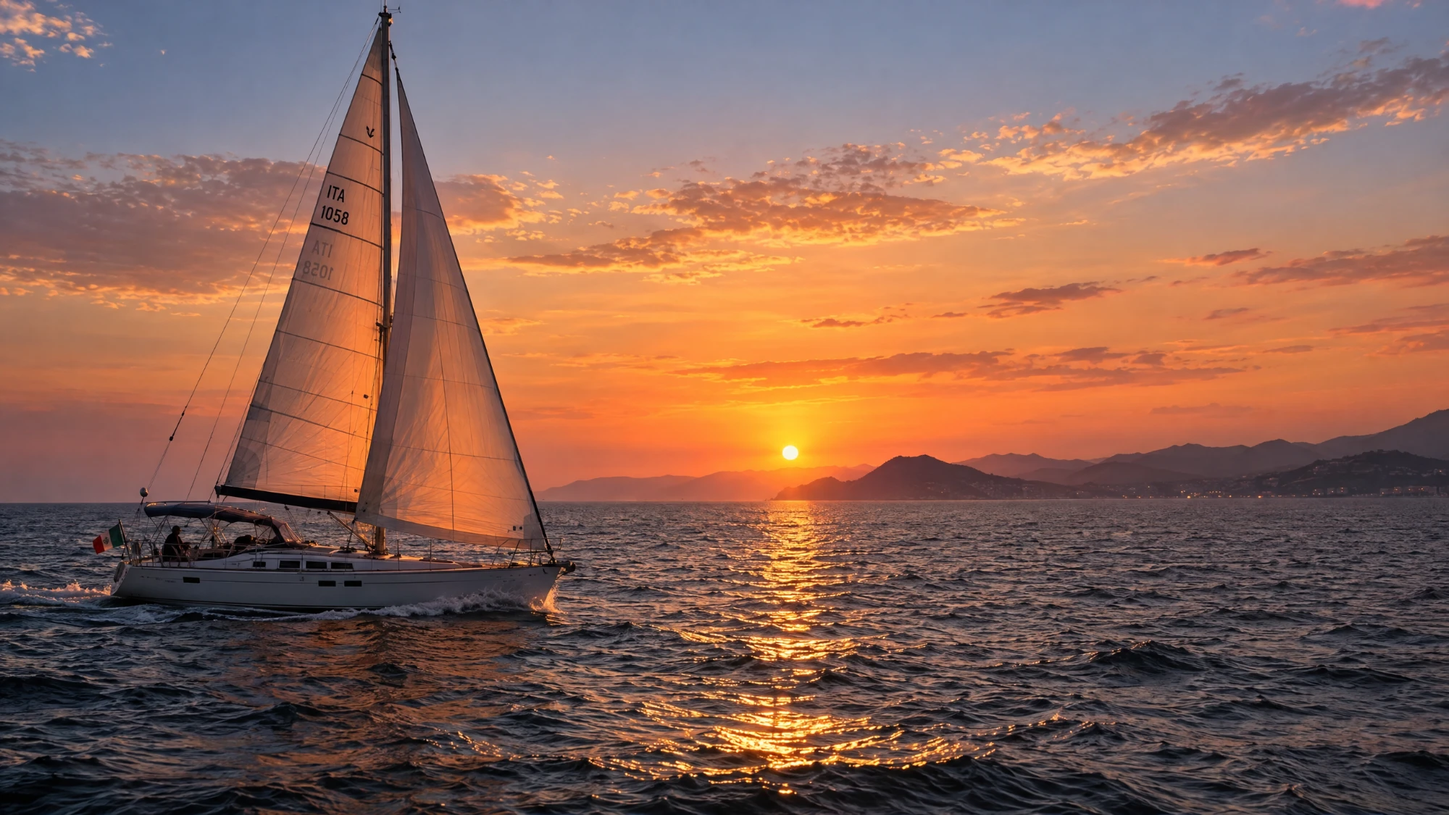
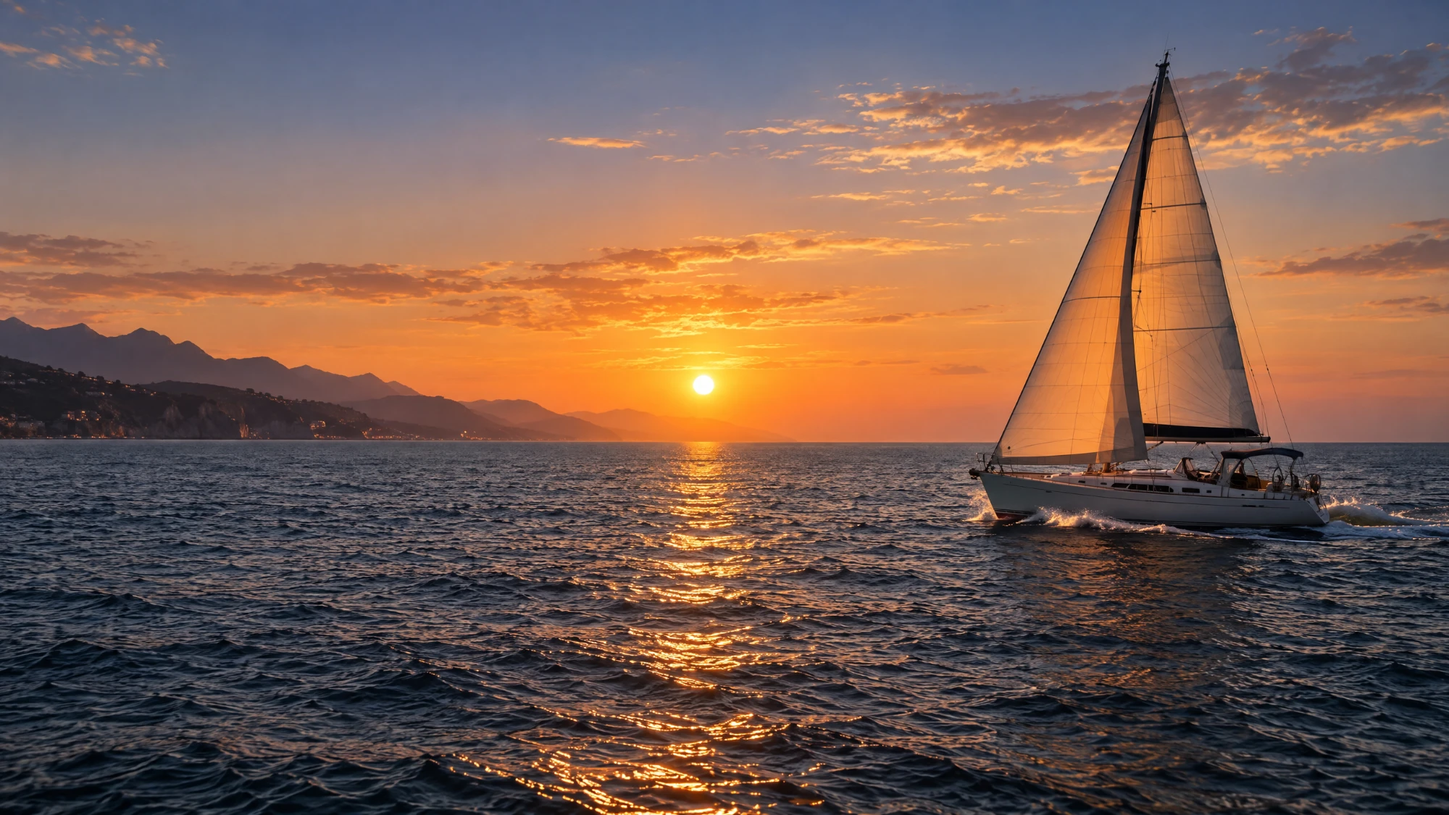
Úvod: hero s plachetnicí vpravo, ilustrační fotka kapitána
- Hero úvodu: nová fotka od klienta s lodí vpravo (text vlevo ji
  nezakrývá), na mobilu výřez posunutý k lodi.
- Karty kapitánů na úvodu a v Náš příběh: jedna ilustrační fotka
  kapitána u kormidla pro všech šest (assets/img/kapitan.webp),
  výřez nastavený na obličej. Označeno OVĚŘIT, nahradit portréty.

Claude-Session: https://claude.ai/code/session_01WPWt2yWtaWmPMjNw8WTRBX

diff --git a/nas-pribeh/index.html b/nas-pribeh/index.html
@@ -57,7 +57,8 @@
 <section class="section"><div class="wrap"><h2 class="sr-only">Příběh od roku 1974 po dnešek</h2><div class="story-track" data-story><svg class="st-svg" aria-hidden="true"><path class="st-route"/><path class="st-trail"/><g class="st-dots"></g><g class="vm-boat"><g class="vm-bob"><path d="M-22 6 L22 6 L15 14 L-15 14 Z" fill="currentColor"/><path d="M-2 4 L-2 -30 L16 4 Z" fill="#fff" stroke="#0B1621" stroke-width="1"/><path d="M-5 4 L-5 -24 L-19 4 Z" fill="#CDB184"/></g></g></svg><article class="chapter"><div class="chapter-img"><img src="https://images.unsplash.com/photo-1636730740168-c94f3ab802e6?auto=format&fit=crop&w=1600&q=80" alt="Malá plachetnice na hladině" loading="lazy"></div><div><span class="year">1974</span><h3>Začátky v&nbsp;Brně</h3><p>Pavel Strašil začíná s&nbsp;plachtěním jako člen klubu Námořní jachting Brno. Po několika úspěšných plavbách po Jaderském a&nbsp;Černém moři pod československou vlajkou se rozhodne zasvětit jachtingu celý život.</p></div></article><article class="chapter rev"><div class="chapter-img"><img src="https://images.unsplash.com/photo-1546214755-c5d22447b43b?auto=format&fit=crop&w=1600&q=80" alt="Plachetnice uprostřed moře" loading="lazy"></div><div><span class="year">1984</span><h3>Cesta za&nbsp;moře</h3><p>Pavel opouští Československo a&nbsp;vydává se na dlouhou plavbu na lodi Pavie 1. Dva roky sbírá nezbytné zkušenosti na Mallorce, aby se mohl zúčastnit transatlantické regaty ARC.</p></div></article><article class="chapter"><div class="chapter-img"><img src="https://images.unsplash.com/photo-1534296264129-b318f8140c27?auto=format&fit=crop&w=1600&q=80" alt="Plachetnice na otevřeném moři" loading="lazy"></div><div><span class="year">Karibik</span><h3>Panenské ostrovy</h3><p>Další kroky vedou do Karibiku, na Panenské ostrovy. Tamní moře patří k&nbsp;centrům světového jachtingu a&nbsp;Pavel tu dál sbírá zkušenosti.</p><p>V&nbsp;Charlotte Amalie na ostrově St. Thomas se narodí syn Lukáš, dnes jeden z&nbsp;našich kapitánů.</p></div></article><article class="chapter rev"><div class="chapter-img"><img src="https://images.unsplash.com/photo-1509295433237-4b4851f2ab67?auto=format&fit=crop&w=1600&q=80" alt="Plachetnice na moři, černobílá fotografie" loading="lazy"></div><div><span class="year">Shallamar</span><h3>Vrak, který měl duši</h3><p>V&nbsp;USA koupil Pavel vrak lodi z&nbsp;muzea v&nbsp;Connecticutu. Přestavba trvala čtyři roky.</p><p>Na Shallamaru, padesátistopé jole o&nbsp;výtlaku 20 tun, se pak rodina plavila po Karibském moři a&nbsp;kolem Bahamských ostrovů. Lukáš na její palubě prožil dětství.</p></div></article><article class="chapter"><div class="chapter-img"><img src="https://images.unsplash.com/photo-1540946485063-a40da27545f8?auto=format&fit=crop&w=1600&q=80" alt="Plachetnice na klidném moři" loading="lazy"></div><div><span class="year">USA</span><h3>Vlastní podnikání</h3><p>Následuje několik přeplaveb Atlantiku a&nbsp;začátek vlastního podnikání v&nbsp;pronájmu lodí. Zákazníkům ve Spojených státech Pavel připravuje jachty na dlouhé plavby a&nbsp;postaví i&nbsp;další loď, dvojstěžník Isabell.</p></div></article><article class="chapter rev"><div class="chapter-img"><img src="https://images.unsplash.com/photo-1526761122248-c31c93f8b2b9?auto=format&fit=crop&w=1600&q=80" alt="Plachetnice při západu slunce" loading="lazy"></div><div><span class="year">1993</span><h3>Přes Atlantik a&nbsp;zpět</h3><p>S&nbsp;dětmi Lukášem a&nbsp;Veronikou vyplouvá rodina na Shallamaru do Evropy.</p><p>O&nbsp;dva roky později následuje plavba z&nbsp;Atlantiku do Karibiku a&nbsp;Pavlova sólo plavba: 21 dní bez motoru a&nbsp;elektřiny z&nbsp;jižního Karibiku do Annapolis v&nbsp;Marylandu, kde loď prodali.</p></div></article><article class="chapter"><div class="chapter-img"><img src="https://images.unsplash.com/photo-1559385301-0187cb6eff46?auto=format&fit=crop&w=1600&q=80" alt="Detail paluby lodi" loading="lazy"></div><div><span class="year">Česko</span><h3>Zkušenosti doma</h3><p>Díky zkušenostem z&nbsp;USA začne Pavel v&nbsp;Česku pracovat jako externí pracovník Českého lodního registru a&nbsp;na technických kontrolách plavidel. Věnuje se také charteru vlastních i&nbsp;pronajatých lodí v&nbsp;Evropě a&nbsp;Karibiku.</p><p>V&nbsp;roce 2004 pluje na patnáctimetrové plachetnici Barberin (Bavaria 50) ze Španělska do Karibiku a&nbsp;o&nbsp;dva roky později Severním Atlantikem přes Azory do italských vod.</p></div></article><article class="chapter rev"><div class="chapter-img"><img src="https://images.unsplash.com/photo-1498623116890-37e912163d5d?auto=format&fit=crop&w=1600&q=80" alt="Kapitán u kormidla" loading="lazy"></div><div><span class="year">2008</span><h3>Carib Yacht Sailing</h3><p>V&nbsp;Brně vzniká Carib Yacht Sailing. Ve stejném roce se Lukáš začíná profesionálně věnovat jachtingu jako kapitán plachetnic i&nbsp;katamaránů.</p></div></article><article class="chapter"><div class="chapter-img"><img src="https://images.unsplash.com/photo-1617727347345-fdd8c918018e?auto=format&fit=crop&w=1600&q=80" alt="Lodě v tyrkysové zátoce" loading="lazy"></div><div><span class="year">Dnes</span><h3>Moře pro další posádky</h3><p>Pavel Strašil naplul přes 150 000 námořních mil a&nbsp;své zkušenosti předává dál. Připravuje budoucí jachtaře ke zkouškám a&nbsp;konzultuje plavby v&nbsp;Česku i&nbsp;po celém světě.</p><p>Spolu s&nbsp;ním pluje posádka zkušených kapitánů. Plujeme na plachetnicích, katamaránech i&nbsp;motorových jachtách a&nbsp;ve spolupráci s&nbsp;Československým Lloydem provádíme technické kontroly námořních jachet.</p></div></article></div></div></section>
 <section class="section ivory" id="kapitani"><div class="wrap">
   <div class="sec-head"><div><h2>Kapitáni, se&nbsp;kterými vyplujete</h2></div><p>Dohromady mají za sebou přes 180 000 námořních mil.</p></div>
-  <div class="captains"><a class="captain" href="#pavel-strasil"><div class="cap-top"><img src="https://images.unsplash.com/photo-1509295433237-4b4851f2ab67?auto=format&fit=crop&w=900&q=80" alt="" loading="lazy"><div class="cap-fig"><strong>150 000</strong><span>námořních mil</span></div></div><div class="cap-body"><h3>Ing. Pavel Strašil</h3><span class="role">Zakladatel a&nbsp;kapitán</span><p>Na moři od roku 1974. Mnohokrát přeplul Atlantik a&nbsp;v&nbsp;USA přestavěl loď Shallamar a&nbsp;postavil dvojstěžník Isabell.</p><span class="line-link">Profil kapitána</span></div></a><a class="captain" href="#lukas-strasil"><div class="cap-top"><img src="https://images.unsplash.com/photo-1534296264129-b318f8140c27?auto=format&fit=crop&w=900&q=80" alt="" loading="lazy"><div class="cap-fig"><strong>3&nbsp;000</strong><span>námořních mil jako kapitán</span></div></div><div class="cap-body"><h3>Lukáš Strašil</h3><span class="role">Kapitán</span><p>Narodil se na Panenských ostrovech a&nbsp;dětství prožil na palubě Shallamaru. Kapitánem od roku 2008.</p><span class="line-link">Profil kapitána</span></div></a><a class="captain" href="#pavel-slaby"><div class="cap-top"><img src="https://images.unsplash.com/photo-1546214755-c5d22447b43b?auto=format&fit=crop&w=900&q=80" alt="" loading="lazy"><div class="cap-fig"><strong>15 000</strong><span>námořních mil</span></div></div><div class="cap-body"><h3>Pavel Slabý</h3><span class="role">Kapitán</span><p>Na moři od roku 1997. Jadran, Korsika, Sardinie, Elba i&nbsp;Karibik.</p><span class="line-link">Profil kapitána</span></div></a><a class="captain" href="#pavel-vacek"><div class="cap-top"><img src="https://images.unsplash.com/photo-1605387202149-47169c4ea58a?auto=format&fit=crop&w=900&q=80" alt="" loading="lazy"><div class="cap-fig"><strong>9&nbsp;000</strong><span>námořních mil</span></div></div><div class="cap-body"><h3>Mgr. Pavel Vacek</h3><span class="role">Kapitán pro firemní akce</span><p>Psycholog a&nbsp;lektor soft skills. Vede vzdělávací akce a&nbsp;teambuilding přímo během plavby.</p><span class="line-link">Profil kapitána</span></div></a><a class="captain" href="#lubomir-huk"><div class="cap-top"><img src="https://images.unsplash.com/photo-1636730740168-c94f3ab802e6?auto=format&fit=crop&w=900&q=80" alt="" loading="lazy"><div class="cap-fig"><strong>2000</strong><span>začátek v&nbsp;jachtingu</span></div></div><div class="cap-body"><h3>Lubomír Huk</h3><span class="role">Kapitán a&nbsp;trenér jachtingu</span><p>Velitel jachty mořské plavby, trenér Českého svazu jachtingu a&nbsp;rozhodčí regat.</p><span class="line-link">Profil kapitána</span></div></a><a class="captain" href="#dominik-slaby"><div class="cap-top"><img src="https://images.unsplash.com/photo-1540946485063-a40da27545f8?auto=format&fit=crop&w=900&q=80" alt="" loading="lazy"><div class="cap-fig"><strong>3&nbsp;000+</strong><span>námořních mil od roku 2016</span></div></div><div class="cap-body"><h3>Dominik Slabý</h3><span class="role">Kapitán</span><p>Na palubě od čtyř let. Britské oprávnění Day Skipper ze školy RYA.</p><span class="line-link">Profil kapitána</span></div></a></div>
+  <!-- OVĚŘIT: fotka kapitána je zatím ilustrační a stejná u všech, nahradit skutečnými portréty -->
+<div class="captains"><a class="captain" href="#pavel-strasil"><div class="cap-top"><img src="../assets/img/kapitan.webp" width="2000" height="1125" alt="" loading="lazy"><div class="cap-fig"><strong>150 000</strong><span>námořních mil</span></div></div><div class="cap-body"><h3>Ing. Pavel Strašil</h3><span class="role">Zakladatel a&nbsp;kapitán</span><p>Na moři od roku 1974. Mnohokrát přeplul Atlantik a&nbsp;v&nbsp;USA přestavěl loď Shallamar a&nbsp;postavil dvojstěžník Isabell.</p><span class="line-link">Profil kapitána</span></div></a><a class="captain" href="#lukas-strasil"><div class="cap-top"><img src="../assets/img/kapitan.webp" width="2000" height="1125" alt="" loading="lazy"><div class="cap-fig"><strong>3&nbsp;000</strong><span>námořních mil jako kapitán</span></div></div><div class="cap-body"><h3>Lukáš Strašil</h3><span class="role">Kapitán</span><p>Narodil se na Panenských ostrovech a&nbsp;dětství prožil na palubě Shallamaru. Kapitánem od roku 2008.</p><span class="line-link">Profil kapitána</span></div></a><a class="captain" href="#pavel-slaby"><div class="cap-top"><img src="../assets/img/kapitan.webp" width="2000" height="1125" alt="" loading="lazy"><div class="cap-fig"><strong>15 000</strong><span>námořních mil</span></div></div><div class="cap-body"><h3>Pavel Slabý</h3><span class="role">Kapitán</span><p>Na moři od roku 1997. Jadran, Korsika, Sardinie, Elba i&nbsp;Karibik.</p><span class="line-link">Profil kapitána</span></div></a><a class="captain" href="#pavel-vacek"><div class="cap-top"><img src="../assets/img/kapitan.webp" width="2000" height="1125" alt="" loading="lazy"><div class="cap-fig"><strong>9&nbsp;000</strong><span>námořních mil</span></div></div><div class="cap-body"><h3>Mgr. Pavel Vacek</h3><span class="role">Kapitán pro firemní akce</span><p>Psycholog a&nbsp;lektor soft skills. Vede vzdělávací akce a&nbsp;teambuilding přímo během plavby.</p><span class="line-link">Profil kapitána</span></div></a><a class="captain" href="#lubomir-huk"><div class="cap-top"><img src="../assets/img/kapitan.webp" width="2000" height="1125" alt="" loading="lazy"><div class="cap-fig"><strong>2000</strong><span>začátek v&nbsp;jachtingu</span></div></div><div class="cap-body"><h3>Lubomír Huk</h3><span class="role">Kapitán a&nbsp;trenér jachtingu</span><p>Velitel jachty mořské plavby, trenér Českého svazu jachtingu a&nbsp;rozhodčí regat.</p><span class="line-link">Profil kapitána</span></div></a><a class="captain" href="#dominik-slaby"><div class="cap-top"><img src="../assets/img/kapitan.webp" width="2000" height="1125" alt="" loading="lazy"><div class="cap-fig"><strong>3&nbsp;000+</strong><span>námořních mil od roku 2016</span></div></div><div class="cap-body"><h3>Dominik Slabý</h3><span class="role">Kapitán</span><p>Na palubě od čtyř let. Britské oprávnění Day Skipper ze školy RYA.</p><span class="line-link">Profil kapitána</span></div></a></div>
 </div></section>
 <section class="section"><div class="wrap"><div class="profiles"><article class="profile2" id="pavel-strasil"><div class="fig"><strong>150 000</strong><span>námořních mil</span></div><div><h3>Ing. Pavel Strašil</h3><span class="role">Zakladatel a&nbsp;kapitán</span><p>Zakladatel a&nbsp;jednatel společnosti. Námořnímu jachtingu se věnuje od roku 1974, kdy začínal jako člen klubu Námořní jachting Brno. Po několika úspěšných plavbách Jaderským a&nbsp;Černým mořem pod vlajkou Československa se rozhodl jachtingu plně zasvětit život.</p><p>V&nbsp;roce 1984 Československo opustil a&nbsp;vydal se na dlouhou plavbu na lodi Pavie 1. Dva roky sbíral zkušenosti na Mallorce, aby se mohl zúčastnit transatlantické regaty ARC. Pak zamířil do Karibiku, na Panenské ostrovy.</p><p>V&nbsp;USA postavil loď Shallamar, na které se s&nbsp;rodinou plavil po Karibském moři a&nbsp;kolem Bahamských ostrovů. Následovalo několik přeplaveb Atlantiku a&nbsp;vlastní podnikání v&nbsp;pronájmu lodí. Zákazníkům ve Spojených státech připravoval jachty na dlouhé plavby a&nbsp;postavil i&nbsp;dvojstěžník Isabell.</p><p>Po návratu do Česka pracoval jako externí pracovník Českého lodního registru a&nbsp;na technických kontrolách plavidel. Za více než padesát let na moři naplul přes 150 000 námořních mil. Dnes připravuje budoucí jachtaře ke zkouškám a&nbsp;konzultuje plavby v&nbsp;Česku i&nbsp;po celém světě.</p></div></article><article class="profile2" id="lukas-strasil"><div class="fig"><strong>3&nbsp;000</strong><span>námořních mil jako kapitán</span></div><div><h3>Lukáš Strašil</h3><span class="role">Kapitán</span><p>Narodil se na Panenských ostrovech, v&nbsp;Charlotte Amalie na ostrově St. Thomas, a&nbsp;dětství prožil na palubě lodi Shallamar, padesátistopé joly. Procestoval velkou část Karibského moře, přeplul Atlantik a&nbsp;třináct let byl pomocníkem svého otce.</p><p>Profesionálně se námořnímu jachtingu věnuje od roku 2008 jako kapitán jednotrupých plachetnic i&nbsp;katamaránů. Sezónu 2009 strávil na lodi Barberin (Bavaria 50), která po přeplutí Atlantiku brázdila Středozemní moře.</p></div></article><article class="profile2" id="pavel-slaby"><div class="fig"><strong>15 000</strong><span>námořních mil</span></div><div><h3>Pavel Slabý</h3><span class="role">Kapitán</span><p>Vystudoval průmyslovou školu v&nbsp;oboru strojírenství a&nbsp;později i&nbsp;školu báňskou. V&nbsp;roce 1997 absolvoval kurz námořního jachtingu u&nbsp;Státní plavební správy a&nbsp;začal sbírat zkušenosti na moři.</p><p>Nejprve v&nbsp;Chorvatsku na Jadranu, později ve Středozemním moři kolem Korsiky, Sardinie, Elby a&nbsp;Sorrentského poloostrova a&nbsp;také v&nbsp;Karibiku: Martinik, Svatá Lucie, Svatý Vincenc, Canouan a&nbsp;Union Island. Jako kapitán naplul přes 15 000 mil.</p></div></article><article class="profile2" id="pavel-vacek"><div class="fig"><strong>9&nbsp;000</strong><span>námořních mil</span></div><div><h3>Mgr. Pavel Vacek</h3><span class="role">Kapitán pro firemní akce</span><p>Vystudoval psychologii, pedagogiku a&nbsp;psychoterapii. Působil jako Training Manager ve farmaceutické společnosti Roche a&nbsp;má dlouholeté zkušenosti s&nbsp;vedením tréninků soft skills: prodejní dovednosti, vyjednávání, prezentace nebo komunikace s&nbsp;problémovým klientem.</p><p>Na moře se poprvé vydal v&nbsp;roce 2003. Jako kapitán vedl lodě v&nbsp;Chorvatsku, Turecku, Itálii, Řecku, USA i&nbsp;v&nbsp;Karibiku a&nbsp;naplul přes 9&nbsp;000 mil. Specializuje se na firemní a&nbsp;individuální vzdělávací akce a&nbsp;spontánní teambuilding během plavby.</p><p>Na palubě rád vaří a&nbsp;ve volném čase se věnuje sportovnímu létání a&nbsp;parašutismu.</p></div></article><article class="profile2" id="lubomir-huk"><div class="fig"><strong>2000</strong><span>začátek v&nbsp;jachtingu</span></div><div><h3>Lubomír Huk</h3><span class="role">Kapitán a&nbsp;trenér jachtingu</span><p>Jachtingu se věnuje od roku 2000. První zkušenosti sbíral na Brněnské přehradě v&nbsp;klubu LS Brno, později se jeho koníčkem stal i&nbsp;námořní jachting.</p><p>V&nbsp;roce 2004 získal oprávnění Velitel jachty pobřežní plavby a&nbsp;o&nbsp;tři roky později Velitel jachty mořské plavby. Je trenérem Českého svazu jachtingu, rozhodčím jachtingu a&nbsp;členem Hladinové záchranné služby ČSJ. V&nbsp;LS Brno pracuje s&nbsp;mládeží a&nbsp;pomáhá organizovat závody.</p><p>Plul v&nbsp;Jaderském, Tyrhénském i&nbsp;Jónském moři, na rekreačních plavbách i&nbsp;v&nbsp;námořních regatách.</p></div></article><article class="profile2" id="dominik-slaby"><div class="fig"><strong>3&nbsp;000+</strong><span>námořních mil od roku 2016</span></div><div><h3>Dominik Slabý</h3><span class="role">Kapitán</span><p>Narodil se v&nbsp;roce 1997 a&nbsp;od čtyř let pomáhal otci na plachetnici, každý rok po celé letní prázdniny. V&nbsp;roce 2016 odmaturoval v&nbsp;oboru strojírenství na SŠTE v&nbsp;Brně a&nbsp;ve stejném roce získal britské oprávnění Day Skipper ve škole RYA.</p><p>Plavil se ve Středomoří, v&nbsp;Chorvatsku, Itálii, na Elbě a&nbsp;Korsice, i&nbsp;v&nbsp;Karibiku kolem Martiniku, Svaté Lucie, Svatého Vincence a&nbsp;Grenadin. Od roku 2016 naplul přes 3&nbsp;000 námořních mil a&nbsp;jeho cílem je přidat k&nbsp;nim ještě pár nul, jako mají jeho kolegové.</p></div></article></div></div></section>
 <section class="closing on-image"><img src="https://images.unsplash.com/photo-1526761122248-c31c93f8b2b9?auto=format&fit=crop&w=2600&q=80" alt="" loading="lazy"><div class="wrap inner"><h2>Vyplujte s&nbsp;námi</h2><p>Napište kapitánům, kam byste se chtěli podívat. Trasu i&nbsp;loď připravíme na míru.</p><div class="hero-actions"><a class="btn btn-light" href="../kontakt/">Poptat plavbu</a><a class="btn" href="tel:+420737168072">+420 737 168 072</a></div></div></section>

diff --git a/index.html b/index.html
@@ -97,7 +97,8 @@
 <section class="section">
   <div class="wrap">
     <div class="sec-head"><div><h2>Kapitáni, se&nbsp;kterými vyplujete</h2></div><div class="aside"><p>Dohromady mají za sebou přes 180 000 námořních mil. Každý z&nbsp;nich zná moře z&nbsp;vlastní zkušenosti, ne z&nbsp;průvodce.</p><a class="line-link" href="nas-pribeh/">Náš příběh</a></div></div>
-    <div class="captains"><a class="captain" href="nas-pribeh/#pavel-strasil"><div class="cap-top"><img src="https://images.unsplash.com/photo-1509295433237-4b4851f2ab67?auto=format&fit=crop&w=900&q=80" alt="" loading="lazy"><div class="cap-fig"><strong>150 000</strong><span>námořních mil</span></div></div><div class="cap-body"><h3>Ing. Pavel Strašil</h3><span class="role">Zakladatel a&nbsp;kapitán</span><p>Na moři od roku 1974. Mnohokrát přeplul Atlantik a&nbsp;v&nbsp;USA přestavěl loď Shallamar a&nbsp;postavil dvojstěžník Isabell.</p><span class="line-link">Profil kapitána</span></div></a><a class="captain" href="nas-pribeh/#lukas-strasil"><div class="cap-top"><img src="https://images.unsplash.com/photo-1534296264129-b318f8140c27?auto=format&fit=crop&w=900&q=80" alt="" loading="lazy"><div class="cap-fig"><strong>3&nbsp;000</strong><span>námořních mil jako kapitán</span></div></div><div class="cap-body"><h3>Lukáš Strašil</h3><span class="role">Kapitán</span><p>Narodil se na Panenských ostrovech a&nbsp;dětství prožil na palubě Shallamaru. Kapitánem od roku 2008.</p><span class="line-link">Profil kapitána</span></div></a><a class="captain" href="nas-pribeh/#pavel-slaby"><div class="cap-top"><img src="https://images.unsplash.com/photo-1546214755-c5d22447b43b?auto=format&fit=crop&w=900&q=80" alt="" loading="lazy"><div class="cap-fig"><strong>15 000</strong><span>námořních mil</span></div></div><div class="cap-body"><h3>Pavel Slabý</h3><span class="role">Kapitán</span><p>Na moři od roku 1997. Jadran, Korsika, Sardinie, Elba i&nbsp;Karibik.</p><span class="line-link">Profil kapitána</span></div></a><a class="captain" href="nas-pribeh/#pavel-vacek"><div class="cap-top"><img src="https://images.unsplash.com/photo-1605387202149-47169c4ea58a?auto=format&fit=crop&w=900&q=80" alt="" loading="lazy"><div class="cap-fig"><strong>9&nbsp;000</strong><span>námořních mil</span></div></div><div class="cap-body"><h3>Mgr. Pavel Vacek</h3><span class="role">Kapitán pro firemní akce</span><p>Psycholog a&nbsp;lektor soft skills. Vede vzdělávací akce a&nbsp;teambuilding přímo během plavby.</p><span class="line-link">Profil kapitána</span></div></a><a class="captain" href="nas-pribeh/#lubomir-huk"><div class="cap-top"><img src="https://images.unsplash.com/photo-1636730740168-c94f3ab802e6?auto=format&fit=crop&w=900&q=80" alt="" loading="lazy"><div class="cap-fig"><strong>2000</strong><span>začátek v&nbsp;jachtingu</span></div></div><div class="cap-body"><h3>Lubomír Huk</h3><span class="role">Kapitán a&nbsp;trenér jachtingu</span><p>Velitel jachty mořské plavby, trenér Českého svazu jachtingu a&nbsp;rozhodčí regat.</p><span class="line-link">Profil kapitána</span></div></a><a class="captain" href="nas-pribeh/#dominik-slaby"><div class="cap-top"><img src="https://images.unsplash.com/photo-1540946485063-a40da27545f8?auto=format&fit=crop&w=900&q=80" alt="" loading="lazy"><div class="cap-fig"><strong>3&nbsp;000+</strong><span>námořních mil od roku 2016</span></div></div><div class="cap-body"><h3>Dominik Slabý</h3><span class="role">Kapitán</span><p>Na palubě od čtyř let. Britské oprávnění Day Skipper ze školy RYA.</p><span class="line-link">Profil kapitána</span></div></a></div>
+    <!-- OVĚŘIT: fotka kapitána je zatím ilustrační a stejná u všech, nahradit skutečnými portréty -->
+<div class="captains"><a class="captain" href="nas-pribeh/#pavel-strasil"><div class="cap-top"><img src="assets/img/kapitan.webp" width="2000" height="1125" alt="" loading="lazy"><div class="cap-fig"><strong>150 000</strong><span>námořních mil</span></div></div><div class="cap-body"><h3>Ing. Pavel Strašil</h3><span class="role">Zakladatel a&nbsp;kapitán</span><p>Na moři od roku 1974. Mnohokrát přeplul Atlantik a&nbsp;v&nbsp;USA přestavěl loď Shallamar a&nbsp;postavil dvojstěžník Isabell.</p><span class="line-link">Profil kapitána</span></div></a><a class="captain" href="nas-pribeh/#lukas-strasil"><div class="cap-top"><img src="assets/img/kapitan.webp" width="2000" height="1125" alt="" loading="lazy"><div class="cap-fig"><strong>3&nbsp;000</strong><span>námořních mil jako kapitán</span></div></div><div class="cap-body"><h3>Lukáš Strašil</h3><span class="role">Kapitán</span><p>Narodil se na Panenských ostrovech a&nbsp;dětství prožil na palubě Shallamaru. Kapitánem od roku 2008.</p><span class="line-link">Profil kapitána</span></div></a><a class="captain" href="nas-pribeh/#pavel-slaby"><div class="cap-top"><img src="assets/img/kapitan.webp" width="2000" height="1125" alt="" loading="lazy"><div class="cap-fig"><strong>15 000</strong><span>námořních mil</span></div></div><div class="cap-body"><h3>Pavel Slabý</h3><span class="role">Kapitán</span><p>Na moři od roku 1997. Jadran, Korsika, Sardinie, Elba i&nbsp;Karibik.</p><span class="line-link">Profil kapitána</span></div></a><a class="captain" href="nas-pribeh/#pavel-vacek"><div class="cap-top"><img src="assets/img/kapitan.webp" width="2000" height="1125" alt="" loading="lazy"><div class="cap-fig"><strong>9&nbsp;000</strong><span>námořních mil</span></div></div><div class="cap-body"><h3>Mgr. Pavel Vacek</h3><span class="role">Kapitán pro firemní akce</span><p>Psycholog a&nbsp;lektor soft skills. Vede vzdělávací akce a&nbsp;teambuilding přímo během plavby.</p><span class="line-link">Profil kapitána</span></div></a><a class="captain" href="nas-pribeh/#lubomir-huk"><div class="cap-top"><img src="assets/img/kapitan.webp" width="2000" height="1125" alt="" loading="lazy"><div class="cap-fig"><strong>2000</strong><span>začátek v&nbsp;jachtingu</span></div></div><div class="cap-body"><h3>Lubomír Huk</h3><span class="role">Kapitán a&nbsp;trenér jachtingu</span><p>Velitel jachty mořské plavby, trenér Českého svazu jachtingu a&nbsp;rozhodčí regat.</p><span class="line-link">Profil kapitána</span></div></a><a class="captain" href="nas-pribeh/#dominik-slaby"><div class="cap-top"><img src="assets/img/kapitan.webp" width="2000" height="1125" alt="" loading="lazy"><div class="cap-fig"><strong>3&nbsp;000+</strong><span>námořních mil od roku 2016</span></div></div><div class="cap-body"><h3>Dominik Slabý</h3><span class="role">Kapitán</span><p>Na palubě od čtyř let. Britské oprávnění Day Skipper ze školy RYA.</p><span class="line-link">Profil kapitána</span></div></a></div>
   </div>
 </section>
 <section class="section">

diff --git a/assets/styles.css b/assets/styles.css
@@ -117,8 +117,8 @@ a,button,summary,label{touch-action:manipulation}
 .hero-img{position:absolute;inset:0}
 .hero-img img{width:100%;height:100%;object-fit:cover;transform:scale(1.07);animation:settle 9s var(--ease) forwards}
 @keyframes settle{to{transform:scale(1)}}
-/* Úvodní fotka: loď je vlevo, na úzkém displeji výřez posunout k ní */
-@media (max-width:760px){.hero.home .hero-img img{object-position:24% center}}
+/* Úvodní fotka: loď je vpravo, na úzkém displeji výřez posunout k ní */
+@media (max-width:760px){.hero.home .hero-img img{object-position:78% center}}
 .hero::after{content:"";position:absolute;inset:0;background:linear-gradient(90deg,rgba(6,13,20,.72) 0%,rgba(6,13,20,.45) 38%,rgba(6,13,20,.08) 72%),linear-gradient(180deg,rgba(6,13,20,.5) 0%,rgba(6,13,20,0) 26%,rgba(6,13,20,.15) 60%,rgba(6,13,20,.7) 100%)}
 .hero h1,.hero .sub,.hero .kicker{text-shadow:0 2px 30px rgba(6,13,20,.35)}
 .hero-content{position:relative;z-index:1;display:grid;grid-template-columns:1fr;align-items:end;gap:40px;padding-top:calc(var(--header-h) + 48px);padding-bottom:clamp(48px,8vh,88px)}
@@ -486,7 +486,7 @@ a,button,summary,label{touch-action:manipulation}
 .captain{display:flex;flex-direction:column;text-decoration:none;color:inherit;background:#fff;border:1px solid var(--line);transition:border-color .4s var(--ease),transform .5s var(--ease)}
 .captain:hover{border-color:var(--ink)}
 .cap-top{position:relative;aspect-ratio:5/4;overflow:hidden;background:var(--midnight);color:#fff;display:flex;align-items:flex-end}
-.cap-top img{position:absolute;inset:0;width:100%;height:100%;object-fit:cover;filter:grayscale(1) contrast(1.1) brightness(.8);transition:transform 1.6s var(--ease)}
+.cap-top img{position:absolute;inset:0;width:100%;height:100%;object-fit:cover;object-position:68% 22%;filter:grayscale(1) contrast(1.1) brightness(.8);transition:transform 1.6s var(--ease)}
 .cap-top::after{content:"";position:absolute;inset:0;background:linear-gradient(180deg,rgba(11,22,33,.25) 0%,rgba(11,22,33,.85) 100%)}
 .captain:hover .cap-top img{transform:scale(1.05)}
 .cap-fig{position:relative;z-index:1;padding:24px 28px}
